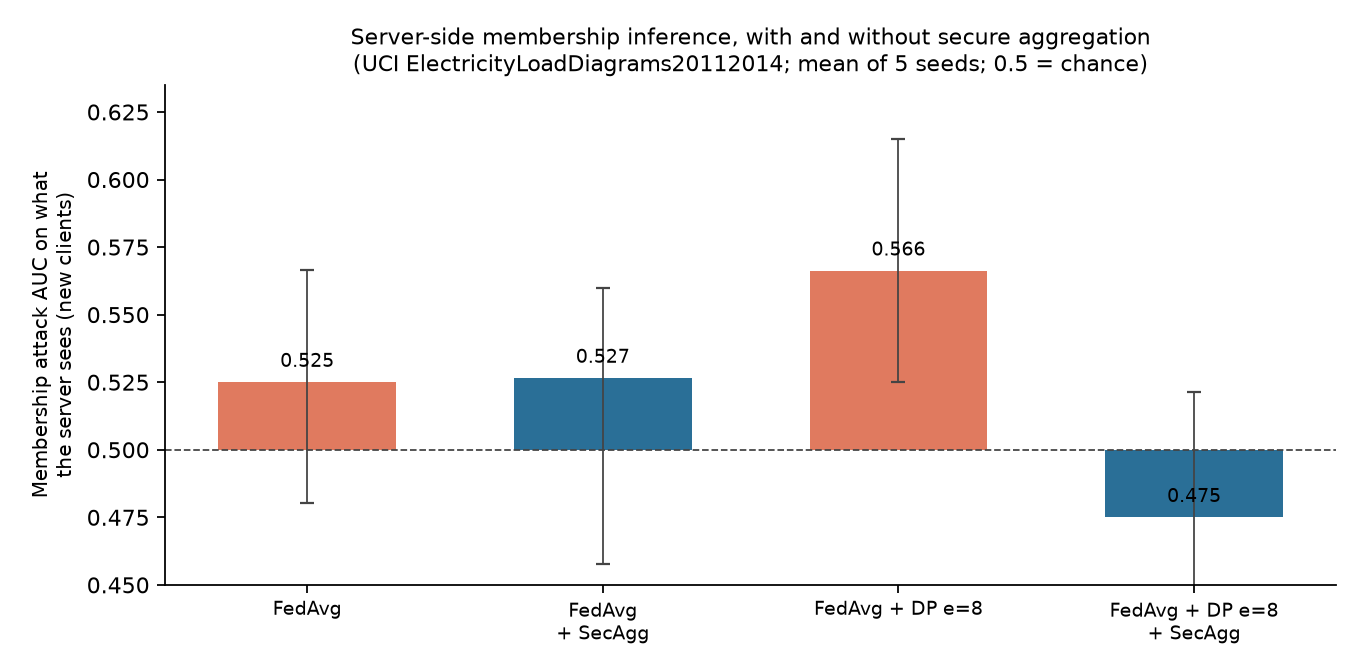
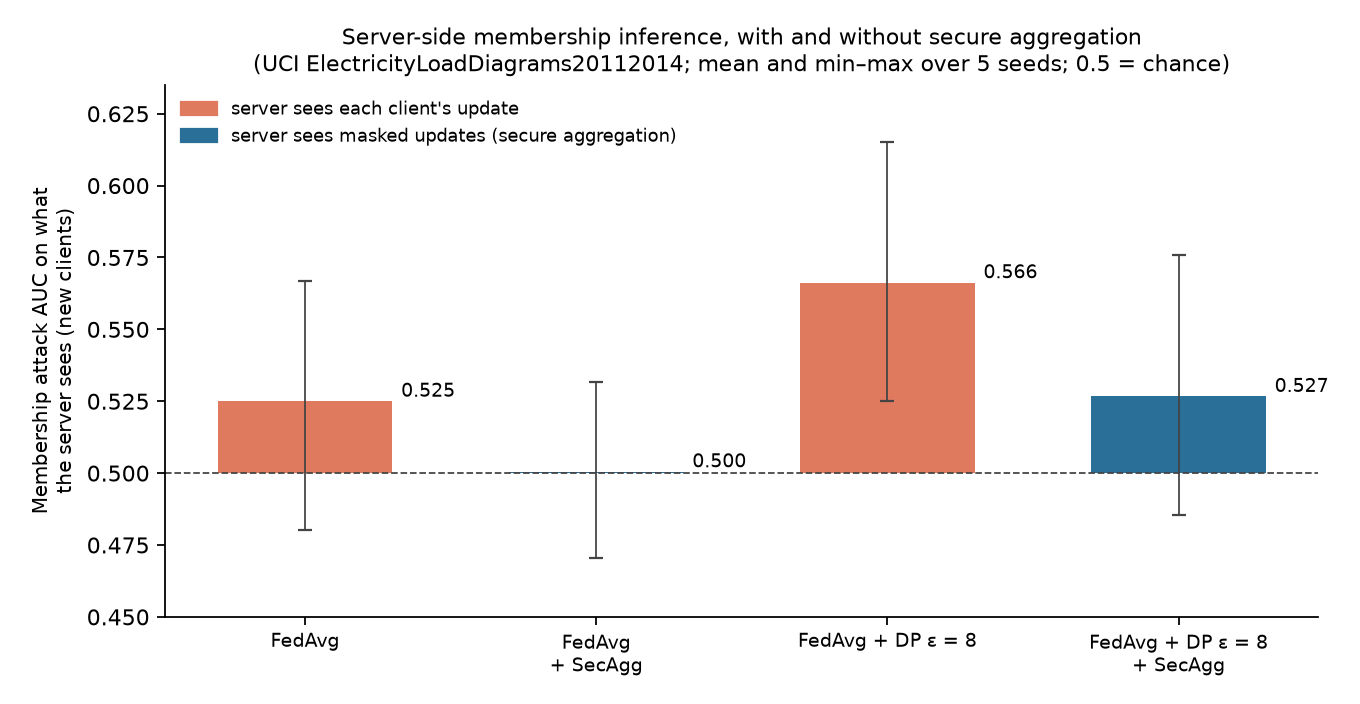
Rerun secure aggregation; update README numbers; clearer audit plots

diff --git a/secagg.py b/secagg.py
@@ -11,7 +11,7 @@ Protocol (honest-but-curious server, clients do not collude with it):
      Each pair of clients (i, j) derives a shared secret by Diffie-Hellman.
   2. Each round, client i encodes its weighted update  n_i * theta_i  in fixed point
      (integers mod 2^64) and appends its weight n_i. It then adds a pseudorandom mask
-     PRG(s_ij, round) for every j > i and subtracts it for every j < i.
+     ChaCha20(HKDF(s_ij, round)) for every j > i and subtracts it for every j < i.
   3. The server adds the masked vectors. Every mask appears once with + and once
      with -, so they cancel: the server learns sum_i n_i * theta_i and sum_i n_i,
      hence the FedAvg average, but no individual update and no individual weight.
@@ -46,6 +46,7 @@ import pandas as pd
 import torch
 from cryptography.hazmat.primitives import hashes, serialization
 from cryptography.hazmat.primitives.asymmetric.x25519 import X25519PrivateKey, X25519PublicKey
+from cryptography.hazmat.primitives.ciphers import Cipher, algorithms
 from cryptography.hazmat.primitives.kdf.hkdf import HKDF
 
 import fl_energy as F
@@ -113,8 +114,7 @@ class Client:
     def mask_seed(self, j, rnd):
         lo, hi = sorted((self.cid, j))
         info = f"secagg|round={rnd}|pair={lo},{hi}".encode()
-        key = HKDF(algorithm=hashes.SHA256(), length=32, salt=None, info=info).derive(self.secrets[j])
-        return int.from_bytes(key, "big")
+        return HKDF(algorithm=hashes.SHA256(), length=32, salt=None, info=info).derive(self.secrets[j])
 
     def masked_input(self, vec, rnd):
         y = encode(vec)
@@ -128,9 +128,11 @@ class Client:
         return {j: self.mask_seed(j, rnd) for j in dropped}
 
 
-def prg(seed, n):
-    return np.random.Generator(np.random.PCG64(seed)).integers(0, 2 ** 64, size=n, dtype=np.uint64,
-                                                              endpoint=False)
+def prg(key, n):
+    """Cryptographic PRG: the ChaCha20 keystream under a 32-byte key, read as n uint64 values.
+    Each key is used once (fresh per pair and round from HKDF), so a fixed nonce is safe."""
+    enc = Cipher(algorithms.ChaCha20(key, bytes(16)), mode=None).encryptor()
+    return np.frombuffer(enc.update(bytes(8 * n)), dtype=np.uint64).copy()
 
 
 def server_sum(masked, survivors, dropped, clients, rnd):
@@ -230,7 +232,10 @@ def main():
     ap.add_argument("--seed", type=int, default=0, help="seed for choosing clients")
     ap.add_argument("--seeds", default="0,1")
     ap.add_argument("--out", default="results")
+    ap.add_argument("--plot-only", action="store_true", help="redraw secagg.png from <out>/secagg.csv")
     args = ap.parse_args()
+    if args.plot_only:
+        return replot(args.out)
 
     if args.synthetic:
         df, source = F.make_synthetic(args.clients, args.seed), "synthetic"
@@ -340,8 +345,9 @@ def plot(summ, path, source, n_seeds):
     import matplotlib
     matplotlib.use("Agg")
     import matplotlib.pyplot as plt
+    from matplotlib.patches import Patch
 
-    fig, ax = plt.subplots(figsize=(8.5, 4.2))
+    fig, ax = plt.subplots(figsize=(8.5, 4.4))
     labels, x = [], np.arange(len(summ))
     for i, r in enumerate(summ.itertuples()):
         sec = "SecAgg" in r.setting
@@ -350,18 +356,33 @@ def plot(summ, path, source, n_seeds):
         hi = (r.server_auc_new_max if sec else r.upd_auc_new_max)
         ax.bar(i, v - 0.5, bottom=0.5, color="#2a6f97" if sec else "#e07a5f", width=0.6)
         ax.errorbar(i, v, yerr=[[v - lo], [hi - v]], color="#444", capsize=3, lw=0.8)
-        ax.text(i, v + 0.004, f"{v:.3f}", ha="center", va="bottom", fontsize=8.5)
-        labels.append(r.setting.replace(" + SecAgg", "\n+ SecAgg"))
+        above = v >= 0.5
+        ax.text(i + 0.33, v, f"{v:.3f}", ha="left", va="bottom" if above else "top", fontsize=8.5)
+        labels.append(r.setting.replace(" e=", " ε = ").replace(" + SecAgg", "\n+ SecAgg"))
     ax.axhline(0.5, color="#444", lw=0.8, ls="--")
     ax.set_xticks(x, labels, fontsize=8.5)
     ax.set_ylabel("Membership attack AUC on what\nthe server sees (new clients)", fontsize=9)
-    ax.set_ylim(0.45, max(0.62, float(summ["upd_auc_new_max"].max()) + 0.02))
+    lo_all = min(float(summ["upd_auc_new_min"].min()), float(summ["server_auc_new_min"].min()))
+    ax.set_ylim(min(0.45, lo_all - 0.02), max(0.62, float(summ["upd_auc_new_max"].max()) + 0.02))
+    ax.legend(handles=[Patch(color="#e07a5f", label="server sees each client's update"),
+                       Patch(color="#2a6f97", label="server sees masked updates (secure aggregation)")],
+              fontsize=8, frameon=False, loc="upper left")
     ax.spines[["top", "right"]].set_visible(False)
     ax.set_title(f"Server-side membership inference, with and without secure aggregation\n"
-                 f"({source}; mean of {n_seeds} seeds; 0.5 = chance)", fontsize=10)
+                 f"({source}; mean and min–max over {n_seeds} seed{'s' if n_seeds != 1 else ''}; 0.5 = chance)",
+                 fontsize=10)
     fig.tight_layout()
     fig.savefig(path, dpi=160)
     plt.close(fig)
+
+
+def replot(out):
+    """Redraw secagg.png from a saved secagg.csv, without retraining."""
+    out = Path(out)
+    summ = pd.read_csv(out / "secagg.csv")
+    cfg = json.loads((out / "secagg_config.json").read_text())
+    plot(summ, out / "secagg.png", cfg["source"], len(str(cfg["seeds"]).split(",")))
+    print(f"Redrew {out}/secagg.png")
 
 
 if __name__ == "__main__":
